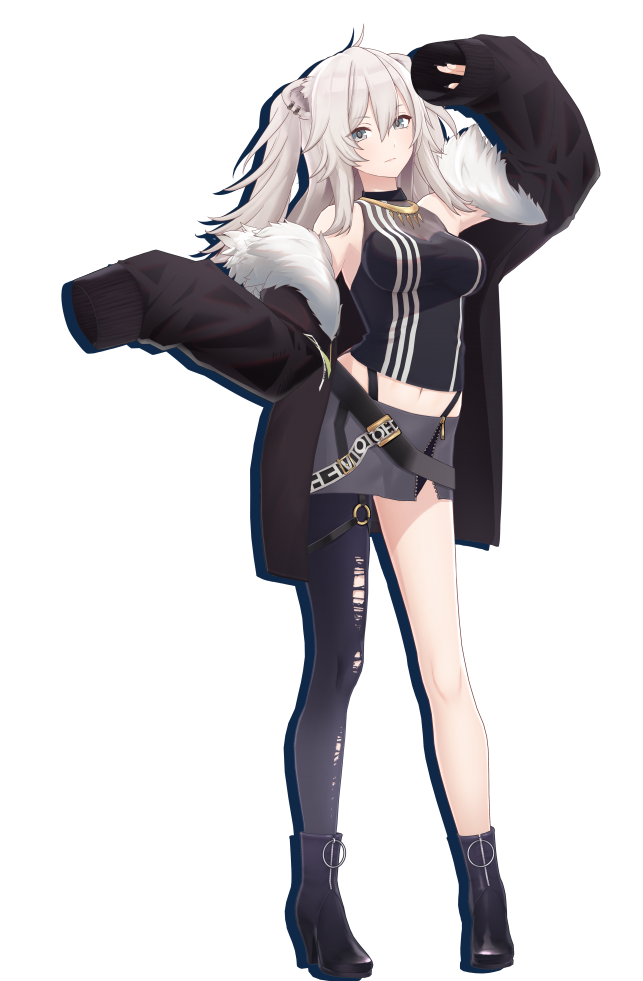
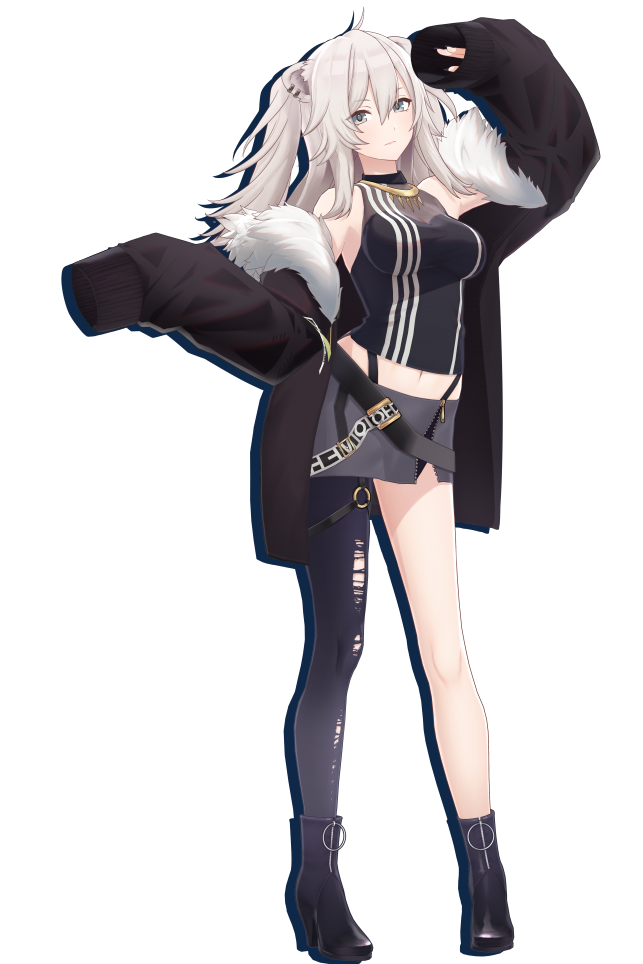
edited fighter images and added more fighters

diff --git a/selectScreen.js b/selectScreen.js
@@ -16,7 +16,11 @@ let fighters = [{name: 'Tokino Sora', portrait: 'images/fighters/portraits/Tokin
 {name: 'Inugami Korone', portrait: 'images/fighters/portraits/Inugami-Korone-Portrait.png', full: 'images/fighters/fullBody/Inugami-Korone-Full.png'},
 {name: 'Shirakami Fubuki', portrait: 'images/fighters/portraits/Shirakami-Fubuki-Portrait.png', full: 'images/fighters/fullBody/Shirakami-Fubuki-Full.png'},
 {name: 'Kiryu Coco', portrait: 'images/fighters/portraits/Kiryu-Coco-Portrait.png', full: 'images/fighters/fullBody/Kiryu-Coco-Full.png'},
-{name: 'Hoshimachi Suisei', portrait: 'images/fighters/portraits/Hoshimachi-Suisei-Portrait.png', full: 'images/fighters/fullBody/Hoshimachi-Suisei-Full.png'}
+{name: 'Hoshimachi Suisei', portrait: 'images/fighters/portraits/Hoshimachi-Suisei-Portrait.png', full: 'images/fighters/fullBody/Hoshimachi-Suisei-Full.png'},
+{name: 'Sakura Miko', portrait: 'images/fighters/portraits/Sakura-Miko-Portrait.png', full: 'images/fighters/fullBody/Sakura-Miko-Full.png'},
+{name: 'Omaru Polka', portrait: 'images/fighters/portraits/Omaru-Polka-Portrait.png', full: 'images/fighters/fullBody/Omaru-Polka-Full.png'},
+{name: 'Akai Haato', portrait: 'images/fighters/portraits/Akai-Haato-Portrait.png', full: 'images/fighters/fullBody/Akai-Haato-Full.png'},
+{name: 'Amane Kanata', portrait: 'images/fighters/portraits/Amane-Kanata-Portrait.png', full: 'images/fighters/fullBody/Amane-Kanata-Full.png'}
 ];
 
 const random = () => {
@@ -26,9 +30,11 @@ const selectTimer = () => {
     function countDown(){
         time--;
         if (time < 0){
+            let player1 = random();
+            let player2 = random();
             clearInterval(clock);
-            selectFighter(fighters[random()], random());
-            selectFighter(fighters[random()], random());
+            selectFighter(fighters[player1], player1);
+            selectFighter(fighters[player2], player2);
         } else {
             timer.innerText = time;
         }
@@ -165,7 +171,6 @@ const displayScreen = () => {
         });
         selectScreen.appendChild(img);
     }
-    
     randomFighter();
     selectTimer();
 }

diff --git a/selectScreen.css b/selectScreen.css
@@ -18,18 +18,18 @@ body {
 .getStarted {
     background-color: #000;
     height: 100vh;
+    display: flex;
+    justify-content: center;
     position: absolute;
+    text-align: center;
     top: 0;
     width: 100vw;
     z-index: 999;
 }
 .getStarted h1 {
+    align-self: center;
     color: #fff;
-    display: block;
     font-size: 60px;
-    margin: 0 auto;
-    position: relative;
-    top: 35vh;
     width: 380px;
 }
 .getStarted h1:hover {
@@ -52,7 +52,7 @@ body {
     grid-template-columns: repeat(4, 1fr);
     grid-template-rows: repeat(5, 1fr);
     order: 1;
-    text-align: center;
+    /* text-align: center; */
     z-index: 1;
 }
 .timer {
@@ -94,7 +94,7 @@ body {
     border: 5px solid white;
     border-radius: 25% 0;
     background-color: rgb(212, 232, 245);
-    height: 70px;
+    height: 80px;
     margin: 10px;
 }
 .randomButton {
@@ -116,6 +116,7 @@ body {
     position: relative;
 }
 .preview {
+    height: 90%;
     opacity: 0.5;
 }
 .overlay {

diff --git a/README.md b/README.md
@@ -1,4 +1,4 @@
 # holoFighters-character-select-screen
 A fighting game character select screen using html, css, and javascript. There's no back-end nor are there plans of making a full game.
 
-I don't own any of the characters or music in this project. This is not an official project of Hololive production, or their parent company Cover Corp. Licensing/Fan-Work Guidelines can be found here: https://en.hololive.tv/terms
+All characters and music in this project is owned by Hololive production. This is not an official project of Hololive production, or their parent company Cover Corp. Fan-Work Guidelines can be found here: https://en.hololive.tv/terms
